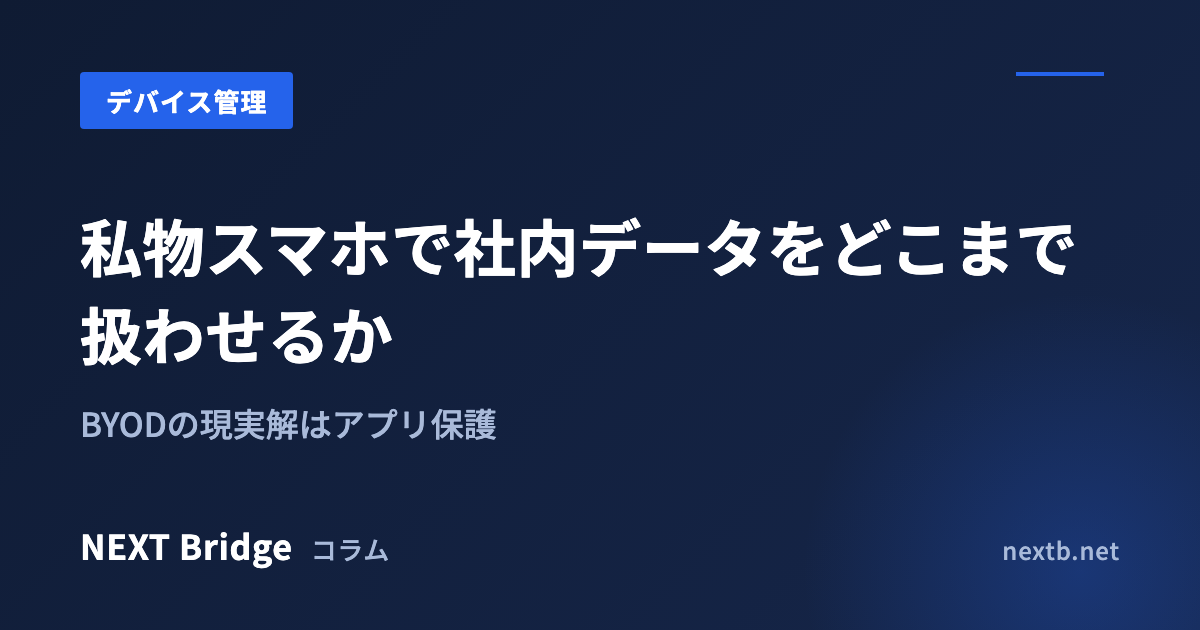
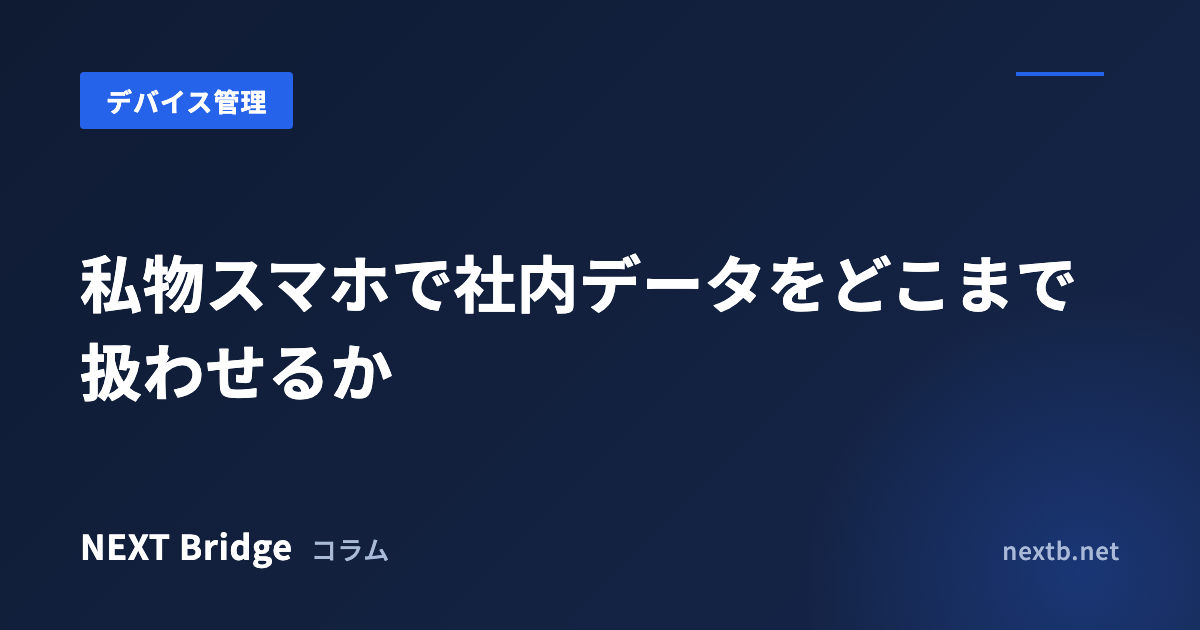
BYODコラムのタイトルを変更しアイキャッチを再生成
「私物スマホのBYOD利用をアプリ保護で線引きする方法」から
「私物スマホで社内データをどこまで扱わせるか」へ。
記事の重心が手段（アプリ保護）から線引きそのものに移ったことに合わせる。
slugは据え置きのためURLは変わらない。

Changed region(s): [[0.0617, 0.3317, 0.8942, 0.6937]]

diff --git a/src/content/articles/byod-app-protection.md b/src/content/articles/byod-app-protection.md
@@ -1,5 +1,5 @@
 ---
-title: 私物スマホのBYOD利用をアプリ保護で線引きする方法
+title: 私物スマホで社内データをどこまで扱わせるか
 description: 私物スマホでのメールやチャットの利用を、全面禁止にも野放しにもできない中小企業に向けて、BYODの3つの選択肢を整理します。Intuneアプリ保護ポリシーの仕組み、プライバシー懸念への答え方、退職時の選択的ワイプ、対応アプリとプランの制約、アプリ保護に頼りきらない統制の全体像まで、導入支援の経験から解説します。
 pubDate: 2026-08-04
 category: デバイス管理
